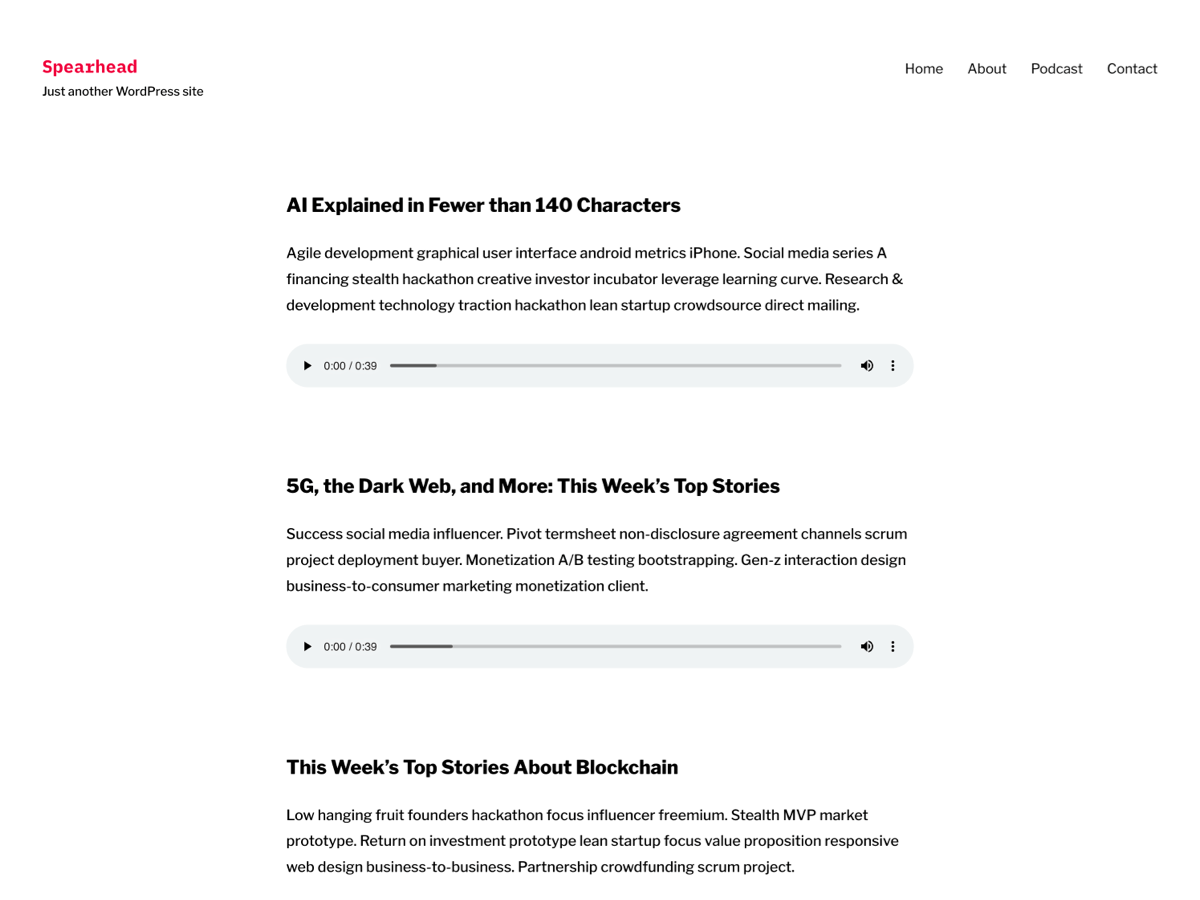
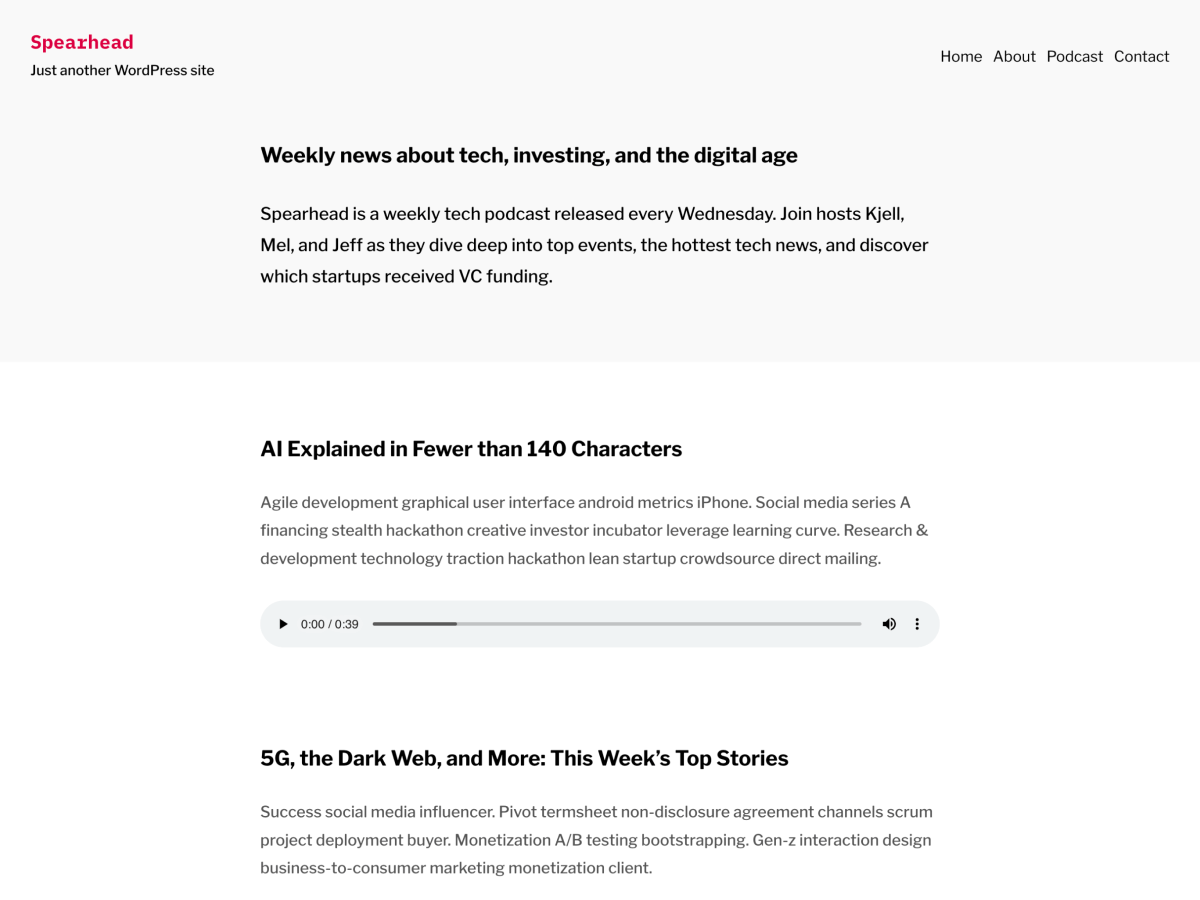
Header Update for matching with original Spearhead
Header template update for home to match with the original Spearhead theme & screenshot update

diff --git a/spearhead-blocks/parts/header-home.html b/spearhead-blocks/parts/header-home.html
@@ -1,0 +1,25 @@
+<!-- wp:group {"backgroundColor":"high-contrast","layout":{"type":"default"}} -->
+<div class="wp-block-group has-high-contrast-background-color has-background"><!-- wp:group {"style":{"spacing":{"padding":{"bottom":"var:preset|spacing|80"}}},"className":"gapless-group","layout":{"inherit":"true","type":"constrained"}} -->
+<div class="wp-block-group gapless-group" style="padding-bottom:var(--wp--preset--spacing--80)"><!-- wp:group {"align":"full","style":{"spacing":{"padding":{"bottom":"35px","top":"35px","right":"35px","left":"35px"}}},"layout":{"type":"flex","justifyContent":"space-between"}} -->
+<div class="wp-block-group alignfull" style="padding-top:35px;padding-right:35px;padding-bottom:35px;padding-left:35px"><!-- wp:group {"layout":{"type":"flex"}} -->
+<div class="wp-block-group"><!-- wp:site-logo {"width":64} /-->
+
+<!-- wp:group {"style":{"spacing":{"blockGap":"5px"}}} -->
+<div class="wp-block-group"><!-- wp:site-title /-->
+
+<!-- wp:site-tagline /--></div>
+<!-- /wp:group --></div>
+<!-- /wp:group -->
+
+<!-- wp:navigation {"__unstableLocation":"primary","layout":{"type":"flex","setCascadingProperties":true,"justifyContent":"right","orientation":"horizontal"},"style":{"spacing":{"margin":{"top":"0"}}}} /--></div>
+<!-- /wp:group -->
+
+<!-- wp:heading {"fontSize":"medium"} -->
+<h2 class="has-medium-font-size">Weekly news about tech, investing, and the digital age</h2>
+<!-- /wp:heading -->
+
+<!-- wp:paragraph {"style":{"typography":{"fontSize":"1.25rem"}}} -->
+<p style="font-size:1.25rem">Spearhead is a weekly tech podcast released every Wednesday. Join hosts Kjell, Mel, and Jeff as they dive deep into top events, the hottest tech news, and discover which startups received VC funding.</p>
+<!-- /wp:paragraph --></div>
+<!-- /wp:group --></div>
+<!-- /wp:group -->

diff --git a/spearhead-blocks/templates/home.html b/spearhead-blocks/templates/home.html
@@ -1,0 +1,31 @@
+<!-- wp:template-part {"slug":"header-home","tagName":"header"} /-->
+
+<!-- wp:group {"style":{"spacing":{"padding":{"top":"var:preset|spacing|70"}}},"className":"sp-home-posts","layout":{"type":"constrained"}} -->
+<div class="wp-block-group sp-home-posts" style="padding-top:var(--wp--preset--spacing--70)"><!-- wp:query {"queryId":0,"query":{"perPage":10,"pages":0,"offset":0,"postType":"post","order":"desc","orderBy":"date","author":"","search":"","exclude":[],"sticky":"","inherit":true,"taxQuery":null,"parents":[]},"tagName":"main","layout":{"inherit":true}} -->
+<main class="wp-block-query"><!-- wp:post-template -->
+<!-- wp:group -->
+<div class="wp-block-group"><!-- wp:post-title {"isLink":true} /-->
+
+<!-- wp:post-featured-image {"isLink":true} /-->
+
+<!-- wp:post-excerpt /-->
+
+<!-- wp:spacer {"height":"40px"} -->
+<div style="height:40px" aria-hidden="true" class="wp-block-spacer"></div>
+<!-- /wp:spacer --></div>
+<!-- /wp:group -->
+<!-- /wp:post-template -->
+
+<!-- wp:group {"layout":{"inherit":true,"type":"constrained"}} -->
+<div class="wp-block-group"><!-- wp:query-pagination {"paginationArrow":"arrow","layout":{"type":"flex","justifyContent":"space-between"}} -->
+<!-- wp:query-pagination-previous /-->
+
+<!-- wp:query-pagination-numbers /-->
+
+<!-- wp:query-pagination-next /-->
+<!-- /wp:query-pagination --></div>
+<!-- /wp:group --></main>
+<!-- /wp:query --></div>
+<!-- /wp:group -->
+
+<!-- wp:template-part {"slug":"footer","tagName":"footer"} /-->

diff --git a/spearhead-blocks/templates/single.html b/spearhead-blocks/templates/single.html
@@ -3,11 +3,11 @@
 <!-- wp:group {"layout":{"inherit":true}} -->
 <div class="wp-block-group"><!-- wp:post-date {"textColor":"secondary","fontFamily":"ibm-plex-mono"} /-->
 
-<!-- wp:post-title {"style":{"typography":{"fontSize":"3rem","lineHeight":1.3999999999999999}}} /--></div>
+<!-- wp:post-title {"style":{"typography":{"fontSize":"3rem","lineHeight":1.2}}} /--></div>
 <!-- /wp:group -->
 
-<!-- wp:group {"tagName":"main","lock":{"move":false,"remove":true}} -->
-<main class="wp-block-group"><!-- wp:post-featured-image {"align":"full"} /-->
+<!-- wp:group {"layout":{"type":"constrained"},"style":{"spacing":{"margin":{"top":"var:preset|spacing|40"}}}} -->
+<div class="wp-block-group" style="margin-top:var(--wp--preset--spacing--40)"><!-- wp:post-featured-image {"align":"full"} /-->
 
 <!-- wp:post-content {"lock":{"move":false,"remove":true},"layout":{"inherit":true}} /-->
 

diff --git a/spearhead-blocks/style.css b/spearhead-blocks/style.css
@@ -10,7 +10,6 @@ Requires PHP: 5.7
 Version: 0.0.1
 License: GNU General Public License v2 or later
 License URI: https://raw.githubusercontent.com/Automattic/themes/trunk/LICENSE
-Template:
 Text Domain: spearhead-blocks
 Tags: one-column, custom-colors, custom-menu, custom-logo, editor-style, featured-images, full-site-editing, rtl-language-support, theme-options, threaded-comments, translation-ready, wide-blocks
 */
@@ -24,6 +23,8 @@ body {
     --wp--preset--color--secondary: var(--wp--preset--color--secondary-dark);
     --wp--preset--color--foreground: var(--wp--preset--color--foreground-dark);
     --wp--preset--color--background: var(--wp--preset--color--background-dark);
+    --wp--preset--color--background: var(--wp--preset--color--background-dark);
+    --wp--preset--color--high-contrast: var(--wp--preset--color--high-contrast-dark);
   }
 }
 /*
